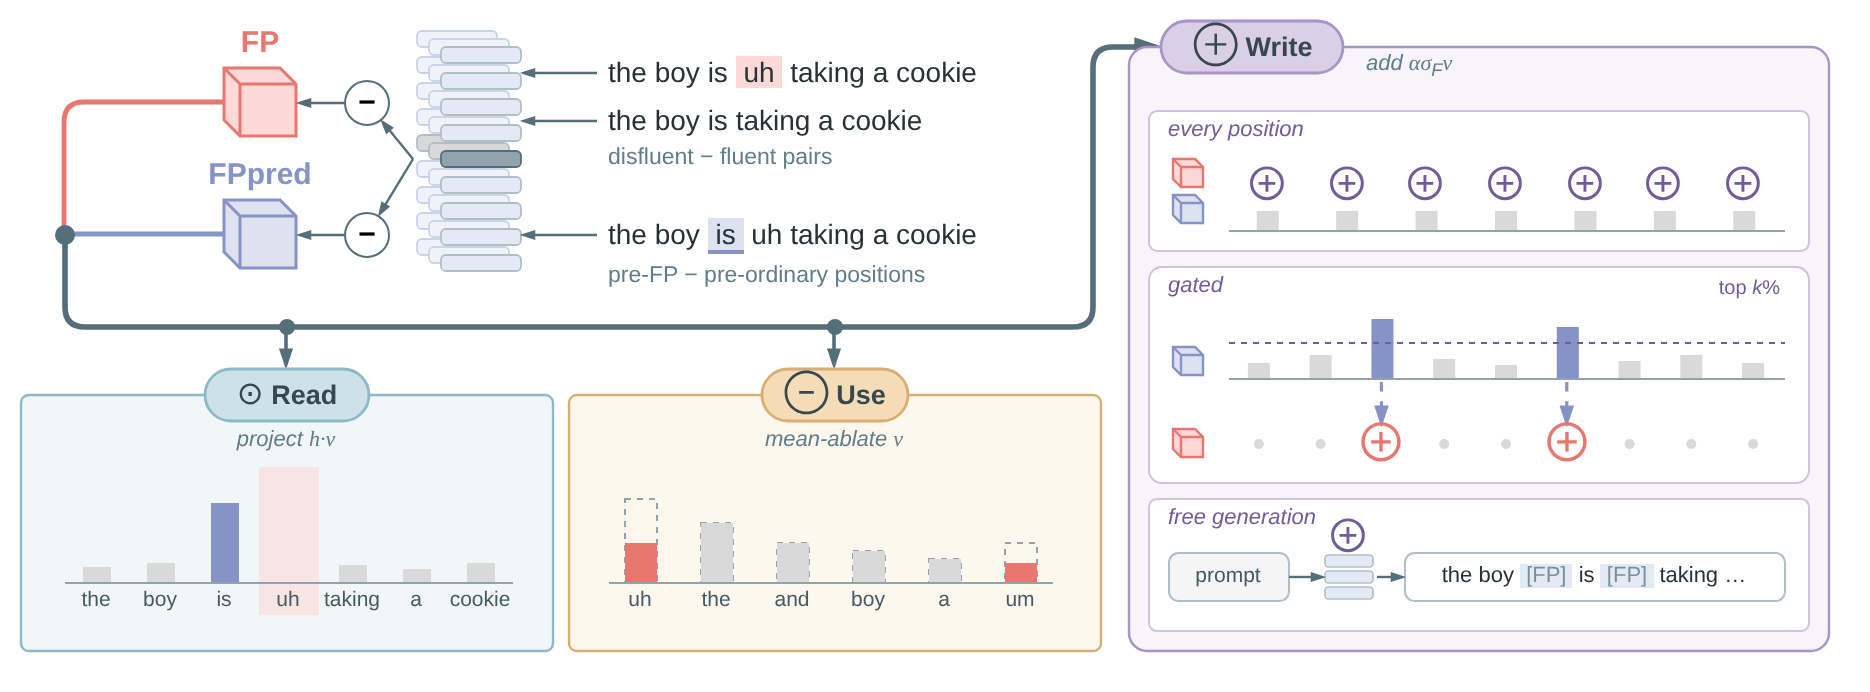
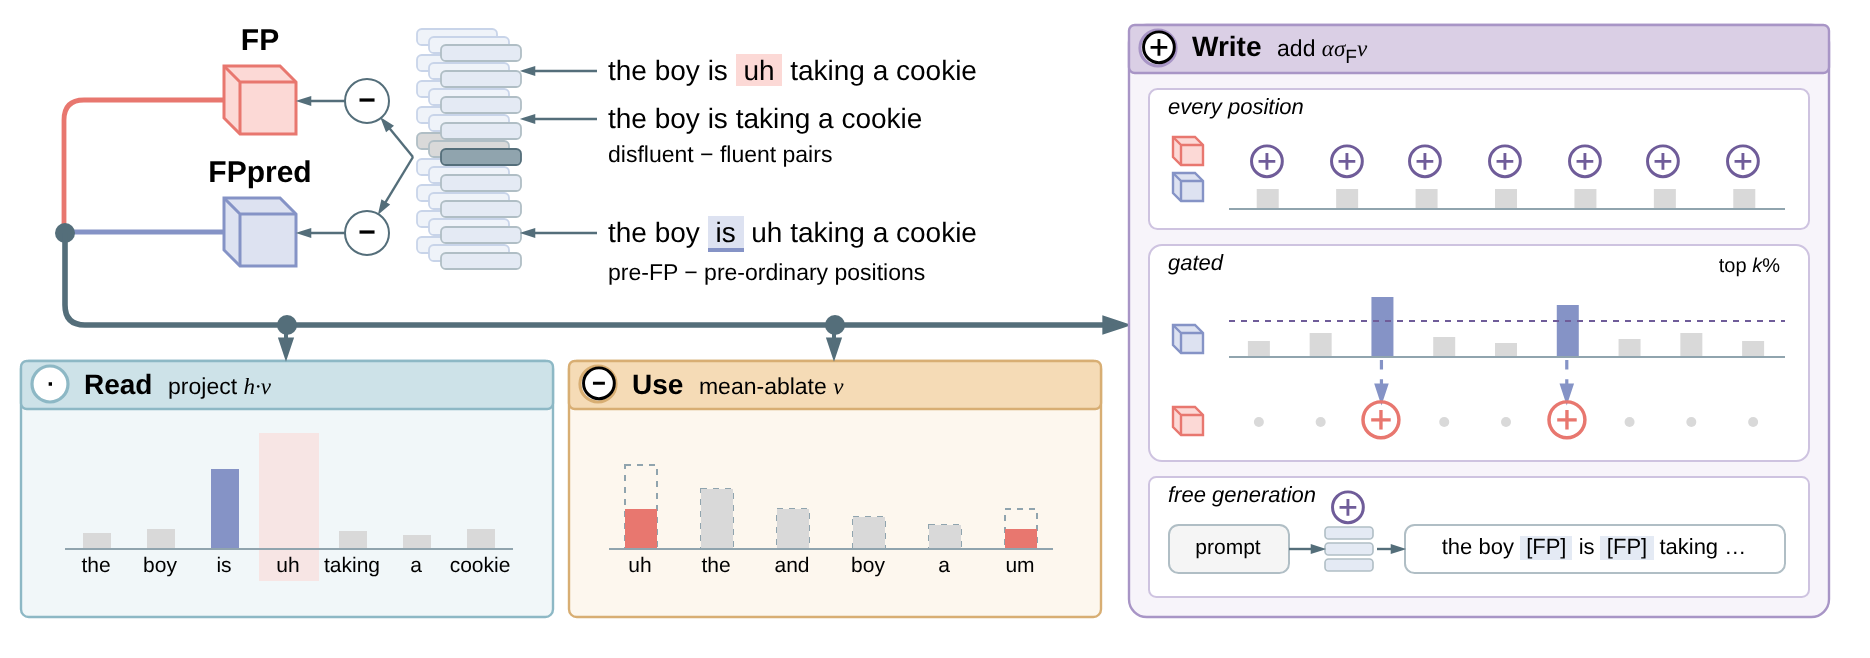
Overview figure v23: back to the v19 layout, all text black, drop Read h·v label
Claude-Session: https://claude.ai/code/session_01Nr8f45fQSeuNoeBXRTJGZT

diff --git a/figures/gen_overview.py b/figures/gen_overview.py
@@ -1,3 +1,4 @@
+import re
 import sys
 from xml.sax.saxutils import escape
 
@@ -27,7 +28,14 @@ def v(value, x, y, w, h, style, cid=None):
     return cid
 
 
+_COLOR_ATTR = re.compile(r"""(?<!background-)color\s*[:=]\s*['"]?#[0-9A-Fa-f]{6}['"]?;?""")
+
+
 def text(value, x, y, w, h, size=11, color="#263238", align="left", extra=""):
+    # every word is set in black; pure symbols (⊕, ★, …) keep their colour
+    if re.search("[A-Za-z]", re.sub("<[^>]+>", "", value)):
+        color = "#000000"
+        value = _COLOR_ATTR.sub("", value)
     return v(value, x, y, w, h, TXT + f"fontSize={size};fontColor={color};align={align};verticalAlign=middle;" + extra)
 
 
@@ -71,7 +79,7 @@ def tab(label, x, y, w):
 
 
 
-W, H = 920, 328
+W, H = 920, 312
 DARK = "#37474F"
 NOTE = "#607D8B"
 GREY_BAR = "#CFD8DC"
@@ -137,11 +145,11 @@ WX = 562
 e(None, None, f"endArrow=none;strokeColor={WARM_S};strokeWidth=2.4;", sp=(110, FPY), pts=[(30, FPY)], tp=(30, PRY))
 e(None, None, f"endArrow=none;strokeColor={COOL_S};strokeWidth=2.4;", sp=(110, PRY), tp=(30, PRY))
 v("", 25, PRY - 5, 10, 10, f"ellipse;html=1;fillColor={LINE};strokeColor=none;")
-e(None, None, f"endArrow=blockThin;endFill=1;strokeColor={LINE};strokeWidth=2.8;", sp=(30, PRY), pts=[(30, RL), (WX - 18, RL), (WX - 18, 18)], tp=(WX + 16, 18))
+e(None, None, f"endArrow=blockThin;endFill=1;strokeColor={LINE};strokeWidth=2.8;", sp=(30, PRY), pts=[(30, RL)], tp=(WX, RL))
 
 # ======================= stages =======================
-PY, PH = 192, 128
-WY, WH = 18, PY + PH - 18
+PY, PH = 176, 128
+WY, WH = 8, PY + PH - 8
 PANELS = {"Read": (8, 266, PY, PH), "Use": (282, 266, PY, PH), "Write": (WX, 912 - WX, WY, WH)}
 STYLE = {"Read": ("#F2F8FE", "#CFE6FB", "#7FB0DD", "·", f"project {serif('h·v')}"),
          "Use": ("#F1F9F8", "#CDEBE7", "#6FBFB4", "⊖", f"mean-ablate {serif('v')}"),
@@ -149,24 +157,13 @@ STYLE = {"Read": ("#F2F8FE", "#CFE6FB", "#7FB0DD", "·", f"project {serif('h·v'
 for name, (x, w, y, h) in PANELS.items():
     body, head, stroke, op, formula = STYLE[name]
     v("", x, y, w, h, f"rounded=1;arcSize=3;html=1;fillColor={body};strokeColor={stroke};strokeWidth=1.2;")
-    # the stage name is a pill on the frame border; the incoming connector ends on it
-    sym = {"Read": "⊙", "Use": "⊖", "Write": "⊕"}[name]
-    pw, ph = len(name) * 9 + 46, 26
-    pill = (f"rounded=1;arcSize=50;html=1;fillColor={head};strokeColor={stroke};strokeWidth=1.4;"
-            f"fontSize=13.5;fontColor={DARK};" + FONT)
-    label = f"<span style='font-size:16px'>{sym}</span>&nbsp;<b>{name}</b>"
-    sub = f"<i><font color='{NOTE}'>{formula}</font></i>"
+    v("", x, y, w, 24, f"rounded=1;arcSize=12;html=1;fillColor={head};strokeColor={stroke};strokeWidth=1.2;")
+    v(op, x + 6, y + 3, 18, 18, f"ellipse;html=1;fillColor=#FFFFFF;strokeColor={stroke};strokeWidth=1.6;fontSize=12;fontStyle=1;" + FONT)
+    text(f"<b>{name}</b>&nbsp;&nbsp;<font style='font-size:11.5px'>{formula}</font>", x + 30, y + 2, w - 34, 20, 14, DARK)
     if name != "Write":
         cx_ = x + w / 2
-        v("", cx_ - 4, RL - 4, 8, 8, f"ellipse;html=1;fillColor={LINE};strokeColor=none;")
-        e(None, None, f"endArrow=blockThin;endFill=1;endSize=5;strokeColor={LINE};strokeWidth=1.8;",
-          sp=(cx_, RL), tp=(cx_, y - ph / 2))
-        v(label, cx_ - pw / 2, y - ph / 2, pw, ph, pill)
-        text(sub, cx_ - 90, y + ph / 2 + 2, 180, 16, 11, DARK, "center")
-    else:
-        px = x + 16
-        v(label, px, y - ph / 2, pw, ph, pill)
-        text(sub, px + pw + 10, y + 2, 140, 16, 11, DARK, "left")
+        v("", cx_ - 5, RL - 5, 10, 10, f"ellipse;html=1;fillColor={LINE};strokeColor=none;")
+        e(None, None, f"endArrow=blockThin;endFill=1;strokeColor={LINE};strokeWidth=2;", sp=(cx_, RL), tp=(cx_, y))
 
 # ---- Read: h·v peaks just before the FP
 x, w, y, h = PANELS["Read"]
@@ -257,15 +254,15 @@ text("top <i>k</i>%", XR - 46, B2 + 4, 46, 14, 10, PURPLE, "right")
 sub_title("free generation", B3)
 ry = B3 + (H3 - 24) / 2 + 6
 pc = v("prompt", IX + 10, ry, 60, 24,
-       "rounded=1;arcSize=20;html=1;fillColor=#F5F5F5;strokeColor=#B0BEC5;fontSize=10.5;fontColor=#455A64;whiteSpace=wrap;" + FONT)
+       "rounded=1;arcSize=20;html=1;fillColor=#F5F5F5;strokeColor=#B0BEC5;fontSize=10.5;fontColor=#000000;whiteSpace=wrap;" + FONT)
 gl = IX + 88
 for i in range(3):
     v("", gl, ry + 1 + i * 8, 24, 6, "rounded=1;arcSize=30;html=1;strokeWidth=0.8;fillColor=#ECEFF1;strokeColor=#B0BEC5;")
 text("⊕", gl + 4, ry - 15, 16, 14, 12, PURPLE, "center", "fontStyle=1;")
 e(pc, None, FLOW, tp=(gl, ry + 12))
-oc = v("the boy <span style='background-color:#ECEFF1;color:#78909C'>&nbsp;[FP]&nbsp;</span> is <span style='background-color:#ECEFF1;color:#78909C'>&nbsp;[FP]&nbsp;</span> taking …",
+oc = v("the boy <span style='background-color:#ECEFF1;color:#000000'>&nbsp;[FP]&nbsp;</span> is <span style='background-color:#ECEFF1;color:#000000'>&nbsp;[FP]&nbsp;</span> taking …",
        gl + 40, ry, XR - (gl + 40), 24,
-       "rounded=1;arcSize=20;html=1;fillColor=#FFFFFF;strokeColor=#B0BEC5;fontSize=11;fontColor=#263238;whiteSpace=wrap;" + FONT)
+       "rounded=1;arcSize=20;html=1;fillColor=#FFFFFF;strokeColor=#B0BEC5;fontSize=11;fontColor=#000000;whiteSpace=wrap;" + FONT)
 e(None, oc, FLOW, sp=(gl + 26, ry + 12))
 
 xml = ('<mxfile host="drawio"><diagram id="overview" name="Overview">'

diff --git a/figures/overview_prompt.md b/figures/overview_prompt.md
@@ -219,3 +219,8 @@ Write 栏挂钩前放门控菱形 `FPpred high?`，接收来自 ② 的 `externa
 
 - 去掉箭头上的独立符号/胶囊；每个阶段名做成压在框线上的胶囊（⊙ Read / ⊖ Use / ⊕ Write），方向线的接头直接落在胶囊上。
 - Read、Use 胶囊在上边框居中；方向线转角向上进入 Write 左上角胶囊。公式改为胶囊下方的灰色斜体小字。
+
+## 27. v23（回到 v19 + 色卡版布局）
+
+- 回退到表头左对齐、无箭头符号的版本（commit f24aa4e 的布局）。
+- 所有文字改为黑色（⊕ 等符号保留颜色）；删去 Read 框内独立的 h·v 标签。
